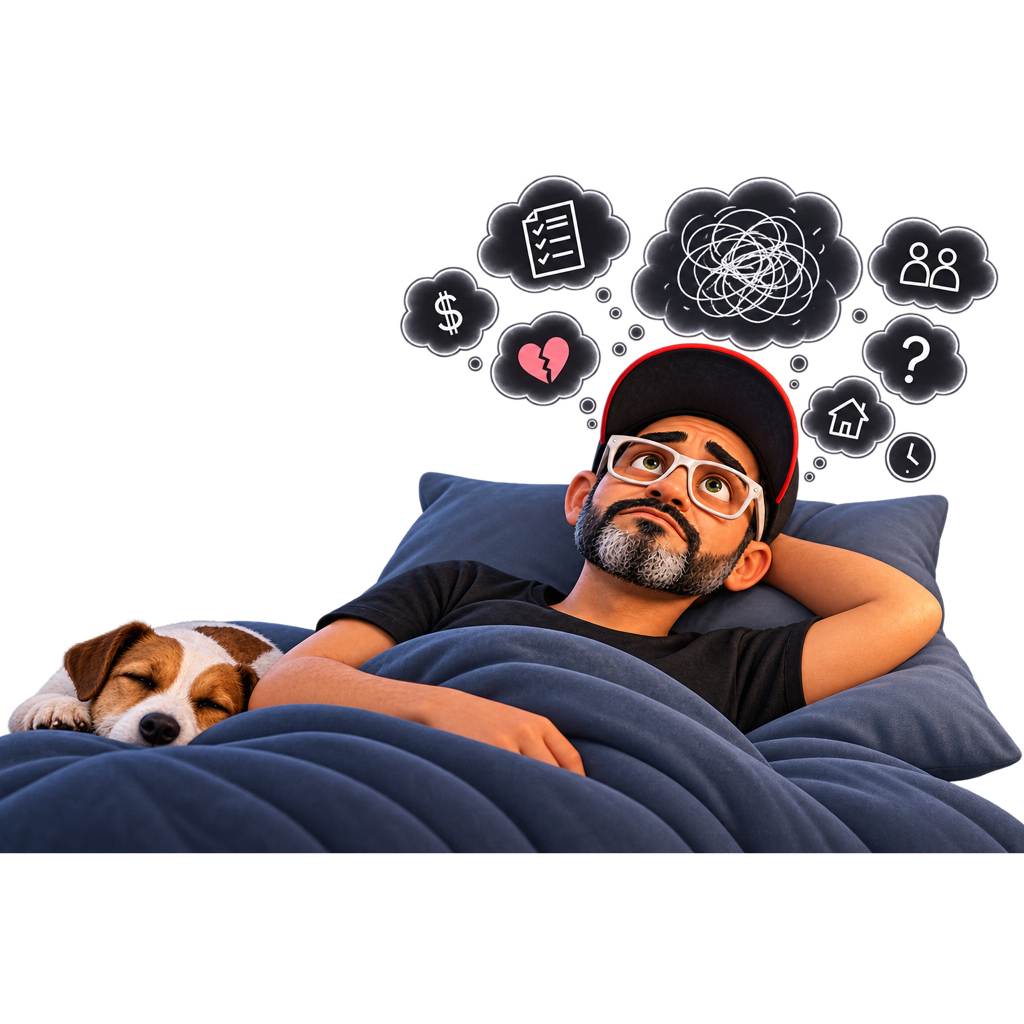
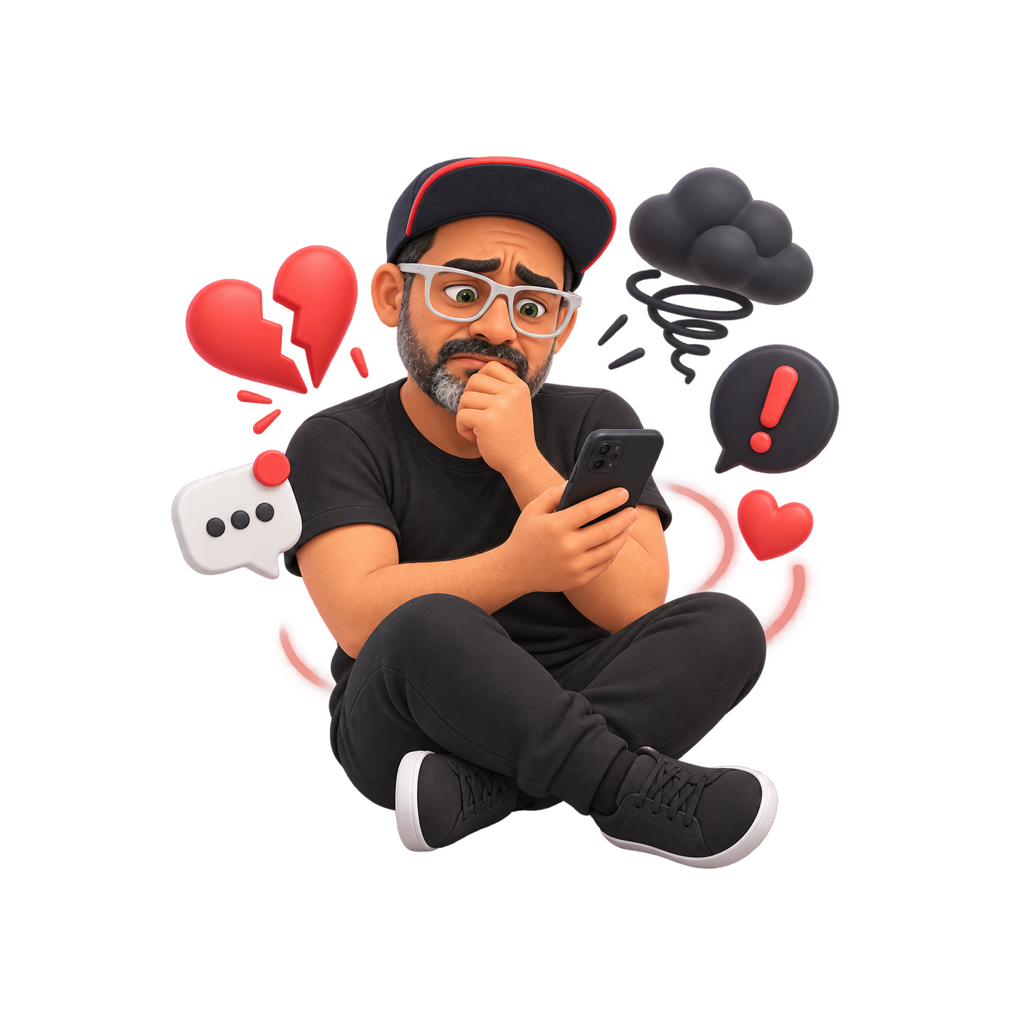
fix: shift images 5->card 4 and 6->card 5

diff --git a/app/page.tsx b/app/page.tsx
@@ -63,8 +63,8 @@ const momentNodes: DeckItem[] = content.moments.map((moment, index) => ({
   title: moment.title,
   detail: 'Meditación para este momento.',
   tone: palette[index % palette.length],
-  image: index === 0 ? '/images/antes-reunion-entrevista-examen.png' : index === 1 ? '/images/cuando-te-agarro-la-ansiedad.png' : index === 2 ? '/images/cuando-no-podes-parar-la-cabeza-para-dormir.png' : index === 4 ? '/images/cuando-te-llego-una-mala-noticia.png' : index === 5 ? '/images/antes-de-tomar-una-decision-dificil.png' : undefined,
-  imageSize: (index === 0 || index === 1 || index === 2 || index === 4 || index === 5) ? ('compact' as const) : undefined,
+  image: index === 0 ? '/images/antes-reunion-entrevista-examen.png' : index === 1 ? '/images/cuando-te-agarro-la-ansiedad.png' : index === 2 ? '/images/cuando-no-podes-parar-la-cabeza-para-dormir.png' : index === 3 ? '/images/cuando-te-peleaste-con-alguien.png' : index === 4 ? '/images/cuando-te-llego-una-mala-noticia.png' : undefined,
+  imageSize: index < 5 ? ('compact' as const) : undefined,
   reader: { title: moment.title, eyebrow: 'MEDITACIÓN PARA AHORA', detail: 'Leé la práctica a tu ritmo.', paragraphs: cleanParagraphs(moment.text) },
 }));
 
@@ -603,5 +603,5 @@ export default function App() {
   if (tab === 'biblioteca' && !trail.length) return <main className="app-shell app-main section-app"><LibraryPanel entries={libraryItems} onBack={back} favorites={favorites} onToggleFavorite={toggleFavorite} onRead={(entry) => setReader({ title: entry.title, eyebrow: entry.type.toUpperCase(), detail: entry.excerpt || 'Biblioteca', paragraphs: cleanParagraphs(entry.body || entry.excerpt || ''), audioUrl: entry.audioUrl, duration: entry.duration })} /></main>;
   if (notificationsOpen) return <main className="app-shell app-main section-app"><NotificationsPanel onBack={back} /></main>;
   if (current?.title === 'Día 1') return <main className="app-shell app-main section-app day-one-screen"><section className="day-one-section"><FixedHeader eyebrow={screen.eyebrow} title={screen.title} subtitle={screen.subtitle} onBack={back} /><DayOneCarousel items={screen.items} onSelect={select} isFavorite={(item) => item.reader ? favorites.some((favorite) => favorite.id === deckFavorite(item).id) : undefined} onFavorite={(item) => toggleFavorite(deckFavorite(item))} /></section></main>;
-  return <main className="app-shell app-main section-app day-one-screen"><section className="day-one-section"><FixedHeader eyebrow={screen.eyebrow} title={screen.title} subtitle={screen.subtitle} onBack={back} /><DayOneCarousel key={`${tab}-${trail.map((item) => item.title).join('/')}`} label={screen.title} items={screen.items.map((item) => item.accountPanel ? { ...item, image: '/images/mi-cuenta-acceso.png' } : item.title === 'Favoritos' ? { ...item, image: '/images/favoritos-guardados.png' } : item.title === 'Mi avance' ? { ...item, image: '/images/mi-avance-progreso.png', imageSize: 'compact' as const } : item.title === 'Configuración' ? { ...item, image: '/images/configuracion-horarios-zona.png', imageSize: 'compact' as const } : item.title === 'Activar notificaciones' ? { ...item, image: '/images/activar-notificaciones.png', imageSize: 'compact' as const } : item.title === 'Horarios de práctica' ? { ...item, image: '/images/horarios-practica.png', imageSize: 'compact' as const } : item.title === 'Preferencias' ? { ...item, image: '/images/preferencias-avisos.png', imageSize: 'compact' as const } : item.title === 'Prácticas de 7 días' ? { ...item, image: '/images/practicas-7-dias.png', imageSize: 'compact' as const } : item.title === 'Prácticas de 15 días' ? { ...item, image: '/images/practicas-15-dias.png', imageSize: 'compact' as const } : item.title === 'Prácticas de 40 días' ? { ...item, image: '/images/practicas-40-dias.png', imageSize: 'compact' as const } : item.title === 'Antes de una reunion, entrevista o examen' ? { ...item, image: '/images/antes-reunion-entrevista-examen.png', imageSize: 'compact' as const } : item.title === 'Cuando te agarro la ansiedad' ? { ...item, image: '/images/cuando-te-agarro-la-ansiedad.png', imageSize: 'compact' as const } : item.title === 'Cuando no podes parar la cabeza para dormir' ? { ...item, image: '/images/cuando-no-podes-parar-la-cabeza-para-dormir.png', imageSize: 'compact' as const } : item.title === 'Cuando te llego una mala noticia' ? { ...item, image: '/images/cuando-te-llego-una-mala-noticia.png', imageSize: 'compact' as const } : item.title === 'Antes de tomar una decision dificil' ? { ...item, image: '/images/antes-de-tomar-una-decision-dificil.png', imageSize: 'compact' as const } : item)} onSelect={select} isFavorite={(item) => item.reader ? favorites.some((favorite) => favorite.id === deckFavorite(item).id) : undefined} onFavorite={(item) => toggleFavorite(deckFavorite(item))} /></section></main>;
+  return <main className="app-shell app-main section-app day-one-screen"><section className="day-one-section"><FixedHeader eyebrow={screen.eyebrow} title={screen.title} subtitle={screen.subtitle} onBack={back} /><DayOneCarousel key={`${tab}-${trail.map((item) => item.title).join('/')}`} label={screen.title} items={screen.items.map((item) => item.accountPanel ? { ...item, image: '/images/mi-cuenta-acceso.png' } : item.title === 'Favoritos' ? { ...item, image: '/images/favoritos-guardados.png' } : item.title === 'Mi avance' ? { ...item, image: '/images/mi-avance-progreso.png', imageSize: 'compact' as const } : item.title === 'Configuración' ? { ...item, image: '/images/configuracion-horarios-zona.png', imageSize: 'compact' as const } : item.title === 'Activar notificaciones' ? { ...item, image: '/images/activar-notificaciones.png', imageSize: 'compact' as const } : item.title === 'Horarios de práctica' ? { ...item, image: '/images/horarios-practica.png', imageSize: 'compact' as const } : item.title === 'Preferencias' ? { ...item, image: '/images/preferencias-avisos.png', imageSize: 'compact' as const } : item.title === 'Prácticas de 7 días' ? { ...item, image: '/images/practicas-7-dias.png', imageSize: 'compact' as const } : item.title === 'Prácticas de 15 días' ? { ...item, image: '/images/practicas-15-dias.png', imageSize: 'compact' as const } : item.title === 'Prácticas de 40 días' ? { ...item, image: '/images/practicas-40-dias.png', imageSize: 'compact' as const } : item.title === 'Antes de una reunion, entrevista o examen' ? { ...item, image: '/images/antes-reunion-entrevista-examen.png', imageSize: 'compact' as const } : item.title === 'Cuando te agarro la ansiedad' ? { ...item, image: '/images/cuando-te-agarro-la-ansiedad.png', imageSize: 'compact' as const } : item.title === 'Cuando no podes parar la cabeza para dormir' ? { ...item, image: '/images/cuando-no-podes-parar-la-cabeza-para-dormir.png', imageSize: 'compact' as const } : item.title === 'Cuando te peleaste con alguien' ? { ...item, image: '/images/cuando-te-peleaste-con-alguien.png', imageSize: 'compact' as const } : item.title === 'Cuando te llego una mala noticia' ? { ...item, image: '/images/cuando-te-llego-una-mala-noticia.png', imageSize: 'compact' as const } : item)} onSelect={select} isFavorite={(item) => item.reader ? favorites.some((favorite) => favorite.id === deckFavorite(item).id) : undefined} onFavorite={(item) => toggleFavorite(deckFavorite(item))} /></section></main>;
 }
